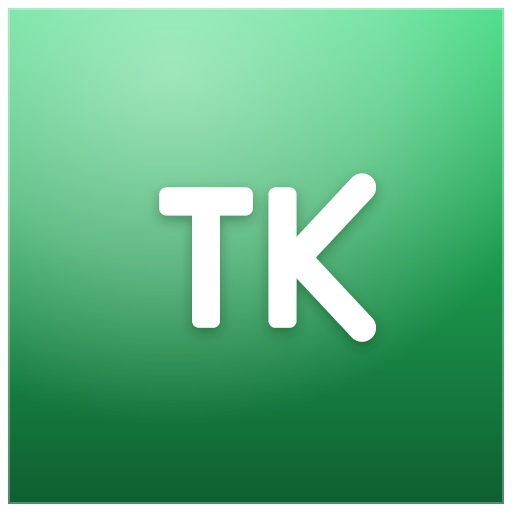
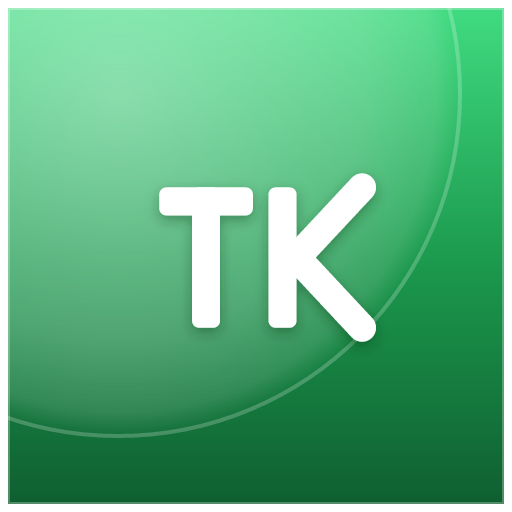
fix: โลโก้ TK — เพิ่มเส้นขอบวงกระจกโค้ง (เว้า) มุมบนซ้ายให้เห็นชัด
เดิมไล่เงานุ่มไม่มีเส้น → เพิ่มเส้นขอบวงโค้ง (stroke arc) + ปรับ radial ให้ขอบชัด
เป็นเส้นโค้งจากบนขวาลงล่างซ้าย ตรงสไตล์ app icon ในรูป
sync generator · icon.svg · Logo.tsx + regenerate PNG

diff --git a/src/components/Logo.tsx b/src/components/Logo.tsx
@@ -23,9 +23,9 @@ export function Logo({ size = 40, className }: { size?: number; className?: stri
           <stop offset="1" stopColor="#0f5f30" />
         </linearGradient>
         <radialGradient id="tk-gloss" cx="0.5" cy="0.5" r="0.5">
-          <stop offset="0" stopColor="#ffffff" stopOpacity="0.52" />
-          <stop offset="0.55" stopColor="#ffffff" stopOpacity="0.30" />
-          <stop offset="0.82" stopColor="#ffffff" stopOpacity="0.12" />
+          <stop offset="0" stopColor="#ffffff" stopOpacity="0.42" />
+          <stop offset="0.72" stopColor="#ffffff" stopOpacity="0.24" />
+          <stop offset="0.93" stopColor="#ffffff" stopOpacity="0.13" />
           <stop offset="1" stopColor="#ffffff" stopOpacity="0" />
         </radialGradient>
         <clipPath id="tk-clip">
@@ -34,7 +34,8 @@ export function Logo({ size = 40, className }: { size?: number; className?: stri
       </defs>
       <rect x="8" y="8" width="496" height="496" rx="108" fill="url(#tk-bg)" />
       <g clipPath="url(#tk-clip)">
-        <ellipse cx="172" cy="72" rx="392" ry="352" fill="url(#tk-gloss)" />
+        <circle cx="118" cy="94" r="342" fill="url(#tk-gloss)" />
+        <circle cx="118" cy="94" r="342" fill="none" stroke="#ffffff" strokeOpacity="0.22" strokeWidth="4" />
       </g>
       <rect x="9" y="9" width="494" height="494" rx="107" fill="none" stroke="#ffffff" strokeOpacity="0.28" strokeWidth="2" />
       {/* TK monogram */}
